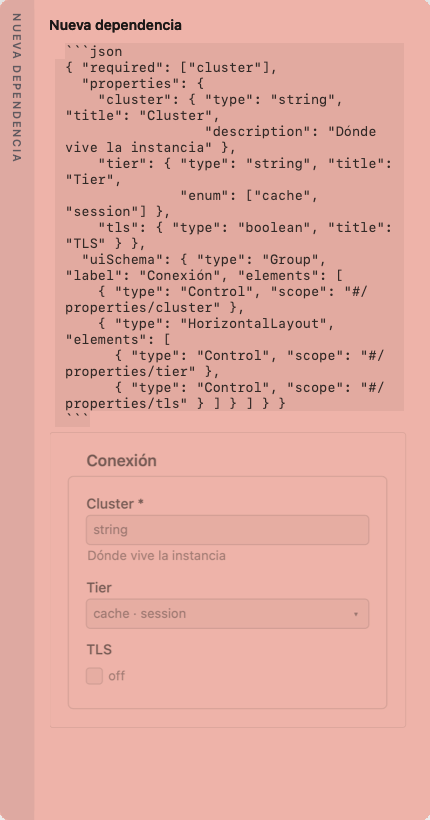
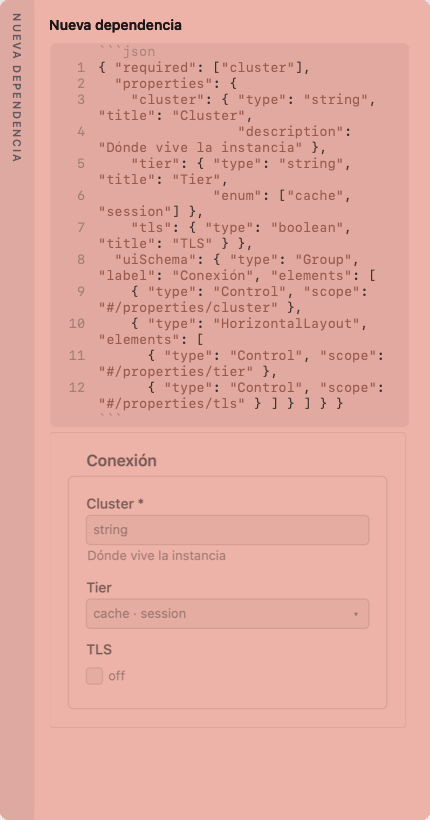
Say what the three new marks are
A bullet each for the bitácora, the line numbers and the quotes, with a picture
drawn by the app's own views like the rest — a note with all three in it.

⌘E gets a row of its own in the shortcuts table. It was listed beside bold and
italic as "code", which is what it was when it only wrapped a word in
backticks; it makes a fenced block now, and on a keyboard where the backtick is
a dead key that is the only way to open one.

The skill gains ```log, because a sequence with times in front of it is the
right shape for an agent reporting what it did and when — and it has to write
the stamps itself, since the app only fills them in for somebody pressing
Enter.

The docs images are regenerated: a fenced block is a drawn panel now, so every
picture with code in it changed.

Claude-Session: https://claude.ai/code/session_018RUkXKr3bT4DnbekwjHqdG

Changed region(s): [[0.1512, 0.061, 0.907, 0.5183], [0.8465, 0.2744, 0.8767, 0.3049], [0.6953, 0.061, 0.7256, 0.0915]]

diff --git a/README.md b/README.md
@@ -161,6 +161,32 @@ SQLite index beside it is a cache you can delete at any moment.
   clipboard: a picture at the quality of its file, a diagram redrawn at its own
   size and twice the density, because what you paste into a ticket should be
   worth looking at.
+- **A block that is a log.** A ```` ```log ```` block is a line of prose with
+  the time it happened in front of it. Enter writes the time for you — the only
+  place in the app where a key writes something you did not type, and it is
+  confined to a block you opened by naming it. The stamp goes in the file,
+  because it is information; what is drawn is the rest: the time dimmed, the
+  prose hanging in a column of its own so a wrapped line lands under the words
+  rather than under the clock, and a time repeating the minute above left
+  undrawn while the file keeps it, the way `journalctl` does.
+- **Line numbers, on the block and not in it.** A fenced block of five lines or
+  more is numbered down its left. The numbers are never in the file — there
+  they would be vandalism, and copying the block would give you code that does
+  not compile — so the block sits on a drawn panel and the numbers sit on that
+  panel with it. A line that wrapped gets none, which on a note is the ordinary
+  case. Shorter blocks go unnumbered: chrome is earned, and two lines of
+  `kubectl` with numbers beside them look like an IDE.
+- **Quotes worth using.** In a note at work a quote is nearly always something
+  somebody said, so what is worth designing is not the indent — it is the
+  attribution. A line inside the quote that opens with an em dash is set small,
+  in the interface face, which is what makes the quote worth coming back to
+  three weeks later. One stroke runs down the whole quote in the note's own
+  accent, so it is a different colour on each of the five papers.
+
+<p align="center">
+  <img src="docs/marks.png" width="430" alt="A note with a timestamped log block, a quote with its attribution, and a numbered yaml block">
+</p>
+
 - **Tables, drawn.** A Markdown table is rendered while you are reading it —
   ruled, aligned, the header set apart — and the note still says pipes and
   dashes. It is locked: a click is not an edit. Press the padlock and it becomes
@@ -363,7 +389,7 @@ different Mac were both wrong.
 ## Tests
 
 ```sh
-swift run ledge-tests                               # 243 unit tests
+swift run ledge-tests                               # 246 unit tests
 ./build/Ledge.app/Contents/MacOS/Ledge --selftest   # the geometry, on this screen
 ```
 
@@ -500,7 +526,8 @@ change for that to work.
 | `⌥⌘L` | The archive |
 | `⌥⌘D` | Show or hide the deck |
 | `⌘↩` | Open the note in the full editor |
-| `⌘B` `⌘I` `⌘E` `⌘K` | Bold, italic, code, link |
+| `⌘B` `⌘I` `⌘K` | Bold, italic, link |
+| `⌘E` | Code — a fenced block, or backticks around what is selected |
 | `⌘⇧T` | Turn lines into tasks, or back |
 | `⌘⇧H` | Highlight the selection |
 | `⌘⇧C` | Copy the code block the caret is in |
@@ -527,7 +554,8 @@ change for that to work.
 
 Headings, bold, italic, quotes, bullets, numbered lists, tasks, tags, links
 between notes, links out, tables, and — drawn rather than highlighted —
-` ```mermaid ` blocks and JSON with a JSONForms `uiSchema` in it. For code, all three of Markdown's forms: inline
+` ```mermaid ` blocks, ` ```log ` blocks, and JSON with a JSONForms `uiSchema`
+in it. For code, all three of Markdown's forms: inline
 `` ` ``, fenced ``` ``` ``` and `~~~`, and four-space indented blocks — which is
 what you get from pasting a terminal. A nested list item also starts with four
 spaces and is deliberately not treated as code.

diff --git a/.claude/skills/ledge/SKILL.md b/.claude/skills/ledge/SKILL.md
@@ -130,6 +130,30 @@ turned out to be different from what anyone expected. A diagram on every append
 is decoration, and the rule below about not writing a transcript applies to
 pictures too.
 
+## When what you are reporting happened at a time
+
+A ```` ```log ```` block is a line of prose with the time in front of it, drawn
+in a column of its own. For an agent this is the right shape for anything with
+an order to it — what you tried, what it did, when it started working — and it
+beats a paragraph because it can be skimmed.
+
+````bash
+ledge append "$ID" <<'EOF'
+```log
+14:02 arranqué la migración
+14:09 3 filas fallaron la validación
+14:11 reintenté con el backfill acotado
+```
+EOF
+````
+
+Write `HH:MM` yourself, zero-padded — the app only fills it in for a person
+pressing Enter. A line without a time is fine and lines up under the words.
+Repeating the same minute is fine too: the note draws the stamp once and the
+file keeps both.
+
+Use it for a sequence. A single event is an ordinary append.
+
 ## When the answer is a form, draw that
 
 A block of JSON with a JSONForms `uiSchema` in it is **drawn as the form it

diff --git a/skills/ledge/SKILL.md b/skills/ledge/SKILL.md
@@ -130,6 +130,30 @@ turned out to be different from what anyone expected. A diagram on every append
 is decoration, and the rule below about not writing a transcript applies to
 pictures too.
 
+## When what you are reporting happened at a time
+
+A ```` ```log ```` block is a line of prose with the time in front of it, drawn
+in a column of its own. For an agent this is the right shape for anything with
+an order to it — what you tried, what it did, when it started working — and it
+beats a paragraph because it can be skimmed.
+
+````bash
+ledge append "$ID" <<'EOF'
+```log
+14:02 arranqué la migración
+14:09 3 filas fallaron la validación
+14:11 reintenté con el backfill acotado
+```
+EOF
+````
+
+Write `HH:MM` yourself, zero-padded — the app only fills it in for a person
+pressing Enter. A line without a time is fine and lines up under the words.
+Repeating the same minute is fine too: the note draws the stamp once and the
+file keeps both.
+
+Use it for a sequence. A single event is an ordinary append.
+
 ## When the answer is a form, draw that
 
 A block of JSON with a JSONForms `uiSchema` in it is **drawn as the form it
